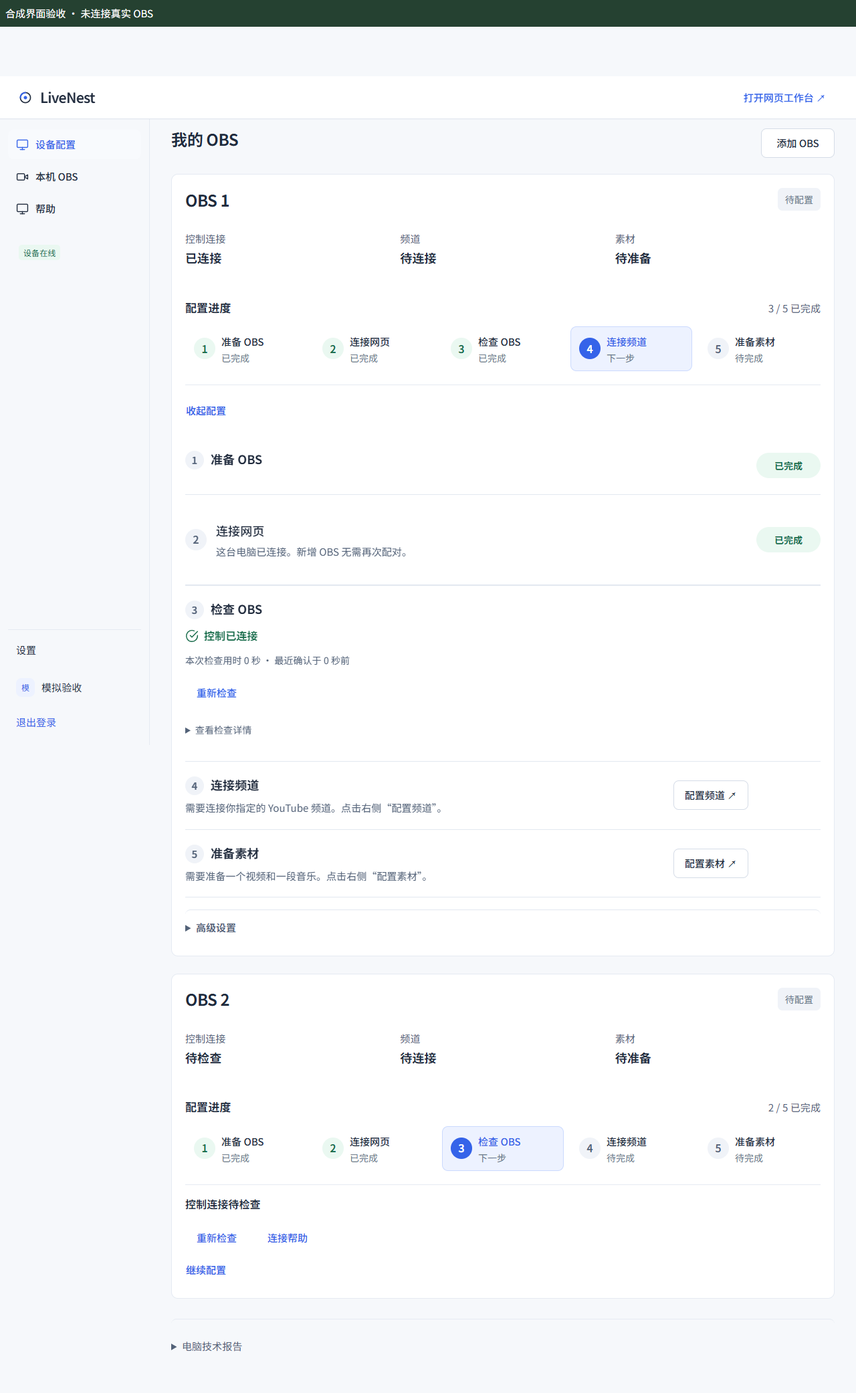
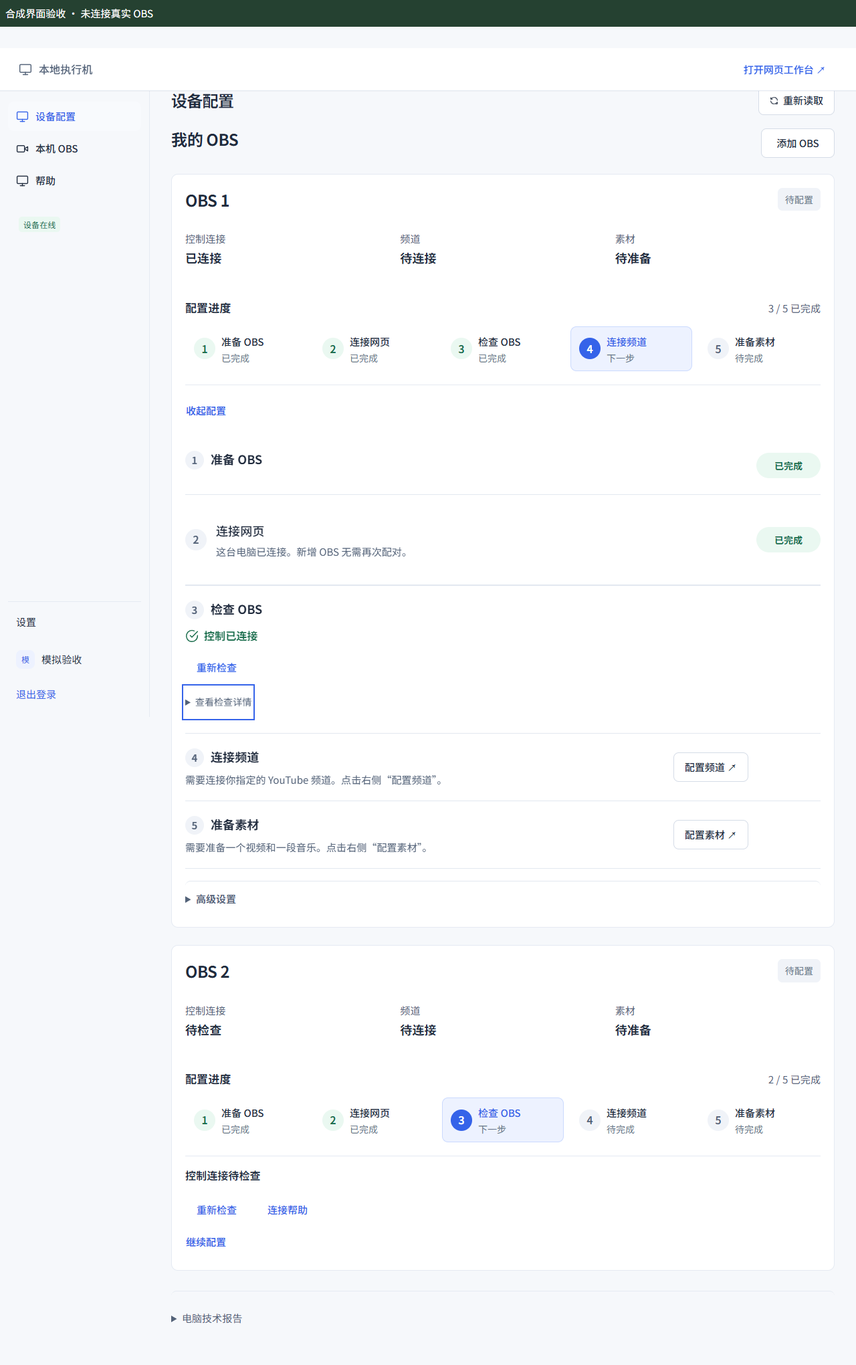
fix(desktop)：消除重复品牌并支持缩放和简洁连接反馈

diff --git a/tests/window-zoom.test.ts b/tests/window-zoom.test.ts
@@ -1,0 +1,108 @@
+/** 窗口缩放回归：验证实际安装的键盘监听、浏览器比例阶梯及未消费按键的边界。 */
+import type { Input } from "electron";
+import { describe, expect, it, vi } from "vitest";
+import { installWindowZoom } from "../electron/window-zoom";
+
+type KeyboardListener = (event: { preventDefault(): void }, input: Input) => void;
+
+/** 仅模拟 Electron 的事件及缩放接口，不启动桌面程序、Agent 或任何真实设备操作。 */
+function fixture(initialFactor = 1) {
+  let factor = initialFactor;
+  const webContents = {
+    on: vi.fn(),
+    getZoomFactor: vi.fn(() => factor),
+    setZoomFactor: vi.fn((next: number) => { factor = next; }),
+  };
+  installWindowZoom(webContents as unknown as Parameters<typeof installWindowZoom>[0]);
+  expect(webContents.on).toHaveBeenCalledExactlyOnceWith("before-input-event", expect.any(Function));
+  const listener = webContents.on.mock.calls[0][1] as KeyboardListener;
+  return {
+    webContents,
+    /** 发出 Electron 输入事件，返回是否消费该按键以核验页面和菜单不会重复缩放。 */
+    press(input: Partial<Input>) {
+      const event = { preventDefault: vi.fn() };
+      listener(event, { type: "keyDown", key: "=", code: "Equal", control: true, shift: false, alt: false, meta: false, isComposing: false, isAutoRepeat: false, location: 0, modifiers: ["control"], ...input });
+      return event;
+    },
+  };
+}
+
+describe("window zoom keyboard combinations", () => {
+  it.each([
+    { key: "=", code: "Equal" },
+    { key: "+", code: "Equal", shift: true },
+    { key: "+", code: "NumpadAdd", location: 3 },
+    { key: "Add", code: "NumpadAdd", location: 3 },
+  ])("zooms in for Ctrl + $key ($code)", input => {
+    const { webContents, press } = fixture();
+    expect(press(input).preventDefault).toHaveBeenCalledOnce();
+    expect(webContents.setZoomFactor).toHaveBeenCalledExactlyOnceWith(1.1);
+  });
+
+  it.each([
+    { key: "-", code: "Minus" },
+    { key: "-", code: "NumpadSubtract", location: 3 },
+    { key: "Subtract", code: "NumpadSubtract", location: 3 },
+  ])("zooms out for Ctrl + $key ($code)", input => {
+    const { webContents, press } = fixture();
+    expect(press(input).preventDefault).toHaveBeenCalledOnce();
+    expect(webContents.setZoomFactor).toHaveBeenCalledExactlyOnceWith(0.9);
+  });
+
+  it.each([
+    { key: "0", code: "Digit0" },
+    { key: "0", code: "Numpad0", location: 3 },
+  ])("restores 100% for Ctrl + 0 ($code)", input => {
+    const { webContents, press } = fixture(1.75);
+    expect(press(input).preventDefault).toHaveBeenCalledOnce();
+    expect(webContents.setZoomFactor).toHaveBeenCalledExactlyOnceWith(1);
+  });
+
+  it("prevents native menu handling before changing the factor", () => {
+    const { webContents, press } = fixture();
+    const event = press({});
+    expect(event.preventDefault.mock.invocationCallOrder[0]).toBeLessThan(webContents.setZoomFactor.mock.invocationCallOrder[0]);
+  });
+});
+
+describe("window zoom factors", () => {
+  it("steps repeatedly through browser zoom factors and remains within 50%-200%", () => {
+    const { webContents, press } = fixture();
+    for (let index = 0; index < 8; index++) expect(press({ isAutoRepeat: index > 0 }).preventDefault).toHaveBeenCalledOnce();
+    expect(webContents.setZoomFactor.mock.calls.map(([factor]) => factor)).toEqual([1.1, 1.25, 1.5, 1.75, 2, 2, 2, 2]);
+    webContents.setZoomFactor.mockClear();
+    for (let index = 0; index < 13; index++) expect(press({ key: "-", code: "Minus", isAutoRepeat: index > 0 }).preventDefault).toHaveBeenCalledOnce();
+    expect(webContents.setZoomFactor.mock.calls.map(([factor]) => factor)).toEqual([1.75, 1.5, 1.25, 1.1, 1, 0.9, 0.8, 0.75, 0.67, 0.5, 0.5, 0.5, 0.5]);
+  });
+
+  it.each([
+    { initial: 1.2, key: "=", expected: 1.25 },
+    { initial: 1.2, key: "-", expected: 1.1 },
+    { initial: 1.1000000000000001, key: "=", expected: 1.25 },
+    { initial: 0.9999999999999999, key: "-", expected: 0.9 },
+  ])("moves from $initial to $expected with Ctrl + $key", ({ initial, key, expected }) => {
+    const { webContents, press } = fixture(initial);
+    press({ key });
+    expect(webContents.setZoomFactor).toHaveBeenCalledExactlyOnceWith(expected);
+  });
+});
+
+describe("unhandled keyboard events", () => {
+  it.each([
+    { control: false },
+    { control: false, meta: true },
+    { alt: true },
+    { meta: true },
+    { isComposing: true },
+    { type: "keyUp" },
+    { key: "c", code: "KeyC" },
+    { key: "_", code: "Minus", shift: true },
+    { key: ")", code: "Digit0", shift: true },
+    { key: "Insert", code: "Numpad0", location: 3 },
+  ])("preserves other page and system input: %j", input => {
+    const { webContents, press } = fixture();
+    expect(press(input).preventDefault).not.toHaveBeenCalled();
+    expect(webContents.getZoomFactor).not.toHaveBeenCalled();
+    expect(webContents.setZoomFactor).not.toHaveBeenCalled();
+  });
+});

diff --git a/desktop/app/page.tsx b/desktop/app/page.tsx
@@ -3,7 +3,7 @@
 import WorkspaceSidebar from "../../src/app/components/workspace-sidebar";
 import { useCallback, useEffect, useRef, useState } from "react";
 import { activityStep, type DesktopActivity, type DesktopAction, type DesktopBridge, type DesktopState } from "../../src/shared/desktop";
-import { DeviceIcon, VideoIcon, RefreshIcon, LiveNestLogo } from "../../src/app/components/icons";
+import { DeviceIcon, VideoIcon, RefreshIcon } from "../../src/app/components/icons";
 import ProblemCard from "../../src/app/components/problem-card";
 import { makeProblem, type Problem } from "../../src/shared/problems";
 import Help from "./help";
@@ -94,7 +94,7 @@ function Desktop({ logout, username }: { logout: () => Promise<void>; username: 
   function instanceSettings(i: DesktopState["instances"][number]) {
     return <details className="advanced-settings"><summary>高级设置</summary><div className="advanced-settings-body"><dl className="advanced-settings-meta"><div><dt>程序路径</dt><dd className="desktop-path">{i.exe}</dd></div><div><dt>控制端口</dt><dd>{i.port}</dd></div></dl><label className="field-group">实例名称<input aria-label={i.name+"名称"} disabled={busy} defaultValue={i.name} maxLength={80} onBlur={e=>{if(e.target.value.trim() && e.target.value!==i.name)void act("rename",{id:i.id,name:e.target.value});}} /></label>{i.managed?<button disabled={busy} onClick={()=>void act("repair-managed",{id:i.id})}>修复连接（先关闭 OBS）</button>:<ManualConnection instances={[i]} disabled={!!busy} act={act}/>}</div></details>;
   }
-  return <><header className="app-header"><div className="header-container"><div className="brand-section"><LiveNestLogo /><span className="brand-name">LiveNest</span></div><div className="desktop-actions desktop-header-actions">{localUpdates.state && <UpdateEntry update={localUpdates.state.update} busy={localUpdates.pending || localUpdates.state.busy} act={localUpdates.act} error={localUpdates.error} />}<button className="btn-ghost" onClick={() => void act("web")}>打开网页工作台 ↗</button></div></div></header>
+  return <><header className="app-header"><div className="header-container"><div className="desktop-app-identity"><DeviceIcon /><span>本地执行机</span></div><div className="desktop-actions desktop-header-actions">{localUpdates.state && <UpdateEntry update={localUpdates.state.update} busy={localUpdates.pending || localUpdates.state.busy} act={localUpdates.act} error={localUpdates.error} />}<button className="btn-ghost" onClick={() => void act("web")}>打开网页工作台 ↗</button></div></div></header>
     <div className="workspace-shell"><WorkspaceSidebar label="桌面导航" footer={<div className="workspace-account desktop-account" aria-label="账户与设置"><button className={"sidebar-link " + (page === "设置" ? "is-active" : "")} onClick={() => setPage("设置")}>设置</button><div className="desktop-account-identity"><span className="account-avatar" aria-hidden="true">{username.slice(0, 1).toUpperCase()}</span><span>{username}</span></div><button className="btn-ghost" onClick={() => void logout()}>退出登录</button></div>}><nav aria-label="桌面导航">{pages.filter(p => p !== "设置").map(p => <button key={p} className={"sidebar-link desktop-nav " + (p === page ? "is-active" : "")} onClick={() => setPage(p)}>{p === "本机 OBS" ? <VideoIcon /> : <DeviceIcon />}<span>{p}</span></button>)}</nav><div className="desktop-status"><span className={"device-state " + (online ? "online" : "")}>{online ? "设备在线" : pairingExpired ? "配对已失效" : state?.agentRunning ? visibleError ? "等待重连" : "正在连接" : !state ? "状态未读取" : "尚未连接"}</span></div></WorkspaceSidebar>
     <main className="main-wrapper"><div className="workspace-heading"><h1>{page}</h1>{page === "设备配置" && <button disabled={busy} onClick={() => void load()}><RefreshIcon />重新读取</button>}</div>
     {state?.maintenance && <div className="banner" role="status">设备维护尚未确认结束，原配置已保留。<button disabled={busy} onClick={() => void act("start")}>重新连接并恢复</button></div>}

diff --git a/desktop/app/obs-instance-controls.tsx b/desktop/app/obs-instance-controls.tsx
@@ -6,7 +6,7 @@ import { CheckCircleIcon, AlertCircleIcon } from "../../src/app/components/icons
 import { obsStartupView } from "./obs-startup-state";
 import styles from "./obs-startup.module.css";
 
-/** 按不可变实例 ID 发起启动或只读检查，忙碌反馈只标记原目标。 */
+/** 按不可变实例 ID 发起启动或只读检查；成功只突出结果，计时留在详情，异常始终就地可见。 */
 export default function ObsInstanceControls({ instance, check, snapshot, activity, disabled, act, help, now, readFresh, refresh }: {
   instance: PublicInstance; check?: Check; snapshot?: AgentSnapshot; activity?: DesktopActivity; disabled: boolean;
   now: number; readFresh: boolean; refresh: () => void;
@@ -28,7 +28,6 @@ export default function ObsInstanceControls({ instance, check, snapshot, activit
     {view.running && <div className={styles.meta} aria-live="off">已等待 {elapsed} 秒{progress?.lastProbeAt ? " · 最近检查完成于 " + Math.max(0, Math.floor((now - progress.lastProbeAt) / 1000)) + " 秒前" : " · 等待首次检查结果"}</div>}
     {view.running && (view.unknown || view.slow) && <p role="status" className={styles.notice}>{view.unknown ? view.overdue ? "本轮已达到检查时限，正在核对最终结果。请重新读取状态，避免重复启动。" : "暂时无法确认检查是否仍在进行。可重新读取状态，或查看连接帮助。" : "连接等待较久，检查仍在继续。可查看 OBS 的控制服务设置，无需重复启动。"}</p>}
     {view.recovered && <p className={styles.notice}>{current?.problem?.code === "OBS_READY" ? "上次连接检查超时；刚刚重新检测到控制已连接。" : "上次连接检查未完成；刚刚重新检测到控制已连接。"}</p>}
-    {view.ready && <div className={styles.meta} aria-live="off">{current?.status === "complete" && !view.recovered ? `本次检查用时 ${elapsed} 秒 · ` : ""}最近确认于 {Math.max(0, Math.floor((now - view.latest!.at) / 1000))} 秒前</div>}
     {view.showFailure && current?.problem && <ProblemCard problem={current.problem} objectName={instance.name} />}
     <div className={styles.actions}>
       {view.showLaunch && <button className="btn-primary" disabled={disabled} aria-label={"启动并检查 " + instance.name} onClick={() => void act("launch-obs", { id: instance.id })}>启动并检查</button>}
@@ -36,10 +35,12 @@ export default function ObsInstanceControls({ instance, check, snapshot, activit
       {view.running && view.unknown && <button onClick={refresh}>重新读取状态</button>}
       {!view.ready && <button className="btn-ghost" onClick={help}>连接帮助</button>}
     </div>
-    {current && current.status !== "cancelled" && <details className={styles.details}><summary>查看检查详情</summary>
-      <p>{progress?.observation || current.stage}</p>
-      <p>本轮最多等待 60 秒；到期停止检查，不关闭 OBS，也不会自动开播。</p>
-      {view.showFailure && <p>本次检查用时 {elapsed} 秒。处理后请先重新检查当前状态。</p>}
+    {(view.ready || (current && current.status !== "cancelled")) && <details key={view.ready ? "connected" : "checking"} className={styles.details}><summary>查看检查详情</summary>
+      {view.ready ? <p className={styles.meta} aria-live="off">{current?.status === "complete" && !view.recovered ? `本次检查用时 ${elapsed} 秒 · ` : ""}最近确认于 {Math.max(0, Math.floor((now - view.latest!.at) / 1000))} 秒前</p> : current && <>
+        <p>{progress?.observation || current.stage}</p>
+        <p>本轮最多等待 60 秒；到期停止检查，不关闭 OBS，也不会自动开播。</p>
+        {view.showFailure && <p>本次检查用时 {elapsed} 秒。处理后请先重新检查当前状态。</p>}
+      </>}
     </details>}
   </div>;
 }

diff --git a/desktop/app/help.tsx b/desktop/app/help.tsx
@@ -1,4 +1,4 @@
-/** 随安装包离线提供的 OBS 图解；复用仓库实拍标注，不依赖联网加载。 */
+/** 随安装包离线提供的 OBS 图解和客户端快捷键；复用仓库实拍标注，不依赖联网加载。 */
 "use client";
 /* eslint-disable @next/next/no-img-element -- 本地实拍截图直接离线显示，不使用 Next 图片服务。 */
 import { useState } from "react";
@@ -12,6 +12,7 @@ const topics = [
   { title: "画布与帧率", image: "video.png", steps: ["先确认没有推流或录制，再进入设置 → 视频。", "基础画布填写 1920×1080，输出分辨率填写 1280×720。", "常用 FPS 选择 30，保存设置。", "竖屏素材应使用匹配的竖屏画布，不强行拉伸。"] },
   { title: "编码与码率", image: "output.png", steps: ["进入设置 → 输出，选择简单模式。", "初次测试选择软件 x264，视频 4000 Kbps，音频 128 Kbps。", "截图显示的是原机器数值，应按本页文字填写。", "同时运行多个 OBS 时检查 CPU、编码负载和上行带宽。"] },
   { title: "故障与恢复", image: "", steps: ["设备已删除：网页或本机删除绑定后，联网并登录会自动解除旧绑定。在网页添加直播电脑，再粘贴新配对码即可连接，不需要恢复旧设备或重新安装。OBS 和素材保留。", "账号无权访问：尚未删除的设备仍属于原客户，请使用对应客户账号；不要把权限问题当成网络故障。", "设备离线：保持客户端运行，检查电脑出站 HTTPS 网络，点击重新连接。", "OBS 连接失败：核对正确的 OBS 是否运行，以及 WebSocket 端口和密码。", "频道查询失败：先检查直播电脑网络并重新查询；只有明确授权失效才重新授权原频道，应用配置错误请联系管理员。", "配置被阻止：在方便维护时结束直播、完成或取消上传与授权，再重试原操作。", "点击“更新并重启”会自动下载、安装并重新打开，无需登录、重新配对或重复确认。准备失败时查看具体原因；OBS 推流、录制或状态未知时不会安装。Agent 正在处理任务时等待完成后重试重启更新，不要强杀进程。", "旧版本卡在重启更新：通过托盘正常退出客户端，从官方发行页下载新版覆盖安装，保留原数据目录，无需卸载或删除配置。", "未知直播状态：检查 OBS 和 YouTube Studio，不重复点击开播，不删除身份或授权文件。", "关闭窗口会收至托盘；电脑睡眠或关机会中断远程控制。"] },
+  { title: "界面缩放", image: "", steps: ["在本地执行机窗口按 Ctrl + + 放大界面，按 Ctrl + - 缩小；也支持 Ctrl + = 和数字键盘的加减键。", "按 Ctrl + 0 恢复 100%。缩放范围为 50%–200%，文字、按钮和布局会一起调整。", "登录页和登录后的配置页均可使用。缩放只调整客户端界面，不改变 OBS 画布或直播输出分辨率。"] },
 ];
 /** 章节切换不改变配置，图片可在断网情况下阅读。 */
 export default function Help({initialTopic="obs"}:{initialTopic?:string}) { const [index, setIndex] = useState(initialTopic==="storage"?1:initialTopic==="recovery"?8:0); const topic = topics[index]; return <div className="desktop-help"><nav aria-label="帮助章节">{topics.map((t, i) => <button className={i === index ? "btn-primary" : "btn-ghost"} key={t.title} onClick={() => setIndex(i)}>{t.title}</button>)}</nav><article><h2>{topic.title}</h2><ol>{topic.steps.map(s => <li key={s}>{s}</li>)}</ol>{topic.image && <img src={"/help/" + topic.image} alt={topic.title + "：编号标注为点击位置"} />}</article></div>; }

diff --git a/electron/window-zoom.ts b/electron/window-zoom.ts
@@ -1,0 +1,31 @@
+/** 执行机窗口缩放快捷键：只拦截当前窗口的 Ctrl 缩放组合，不接触 Agent 或持久化配置。 */
+import type { Input, WebContents } from "electron";
+
+const zoomFactors = [0.5, 0.67, 0.75, 0.8, 0.9, 1, 1.1, 1.25, 1.5, 1.75, 2] as const;
+const zoomTolerance = 0.0001;
+type ZoomAction = "in" | "out" | "reset";
+
+/** 只识别 Ctrl 缩放按下事件；保留组合输入、其他系统快捷键及数字键盘的 Insert 行为。 */
+function zoomAction(input: Input): ZoomAction | undefined {
+  if (input.type !== "keyDown" || !input.control || input.alt || input.meta || input.isComposing) return;
+  if (input.key === "+" || input.key === "=" || input.key === "Add" || input.code === "NumpadAdd") return "in";
+  if (input.key === "-" || input.key === "Subtract" || input.code === "NumpadSubtract") return "out";
+  if (input.key === "0") return "reset";
+}
+
+/** 沿浏览器常用比例逐档调整并限制在 50%–200%；容忍 Chromium 比例读数的浮点误差。 */
+function nextZoomFactor(current: number, action: Exclude<ZoomAction, "reset">): number {
+  if (action === "in") return zoomFactors.find(factor => factor > current + zoomTolerance) ?? zoomFactors[zoomFactors.length - 1];
+  return [...zoomFactors].reverse().find(factor => factor < current - zoomTolerance) ?? zoomFactors[0];
+}
+
+/** 为指定窗口安装缩放键；先阻止页面及菜单再次处理，再由主进程改变整页显示比例。 */
+export function installWindowZoom(webContents: Pick<WebContents, "on" | "getZoomFactor" | "setZoomFactor">): void {
+  /** 只消费已识别的缩放组合，其他按键继续交给当前输入框、页面和菜单。 */
+  webContents.on("before-input-event", (event, input) => {
+    const action = zoomAction(input);
+    if (!action) return;
+    event.preventDefault();
+    webContents.setZoomFactor(action === "reset" ? 1 : nextZoomFactor(webContents.getZoomFactor(), action));
+  });
+}

diff --git a/electron/main.ts b/electron/main.ts
@@ -12,6 +12,7 @@ import { Shutdown } from "./shutdown";
 import { DesktopAccess } from "./desktop-access";
 import { problemSchema, problemSummary } from "../src/shared/problems";
 import { UpdateAccess } from "./update-access";
+import { installWindowZoom } from "./window-zoom";
 const auth = new DesktopAuth((url, init) => net.fetch(url, init));
 protocol.registerSchemesAsPrivileged([{ scheme: "livenest", privileges: { standard: true, secure: true, supportFetchAPI: true } }]);
 app.setName("LiveNest"); app.setAppUserModelId("com.doris619619.livenest");
@@ -54,6 +55,7 @@ async function launch() {
   await manager.init();
   protocol.handle("livenest", serve); session.defaultSession.setPermissionRequestHandler((_wc, _permission, callback) => callback(false));
   window = new BrowserWindow({ width: 1280, height: 880, minWidth: 780, minHeight: 620, show: false, backgroundColor: "#ffffff", title: "LiveNest", autoHideMenuBar: true, webPreferences: { preload: path.join(__dirname, "preload.cjs"), contextIsolation: true, nodeIntegration: false, sandbox: true, webSecurity: true } });
+  installWindowZoom(window.webContents);
   window.webContents.setWindowOpenHandler(() => ({ action: "deny" })); window.webContents.on("will-navigate", e => e.preventDefault()); window.webContents.on("will-attach-webview", e => e.preventDefault());
   window.on("close", e => { if (!quitting) { e.preventDefault(); window?.hide(); } });
   ipcMain.handle("desktop:session", event => { trusted(event); return auth.session(); });

diff --git a/desktop/app/obs-startup.module.css b/desktop/app/obs-startup.module.css
@@ -1,5 +1,6 @@
 /* 文件用途：OBS 检查的局部阶段反馈与状态下方操作区，继承桌面字体和颜色。 */
 .feedback { display: flex; flex-direction: column; align-items: flex-start; gap: 12px; margin: 12px 0 4px; min-width: 0; overflow-wrap: anywhere; }
+.feedback[data-startup-state="ready"] { gap: 8px; }
 .heading { display: flex; align-items: center; gap: 8px; font-size: 16px; font-weight: 600; line-height: 1.6; }
 .heading svg { width: 20px; height: 20px; flex-shrink: 0; }
 .ready { color: var(--success-green); }
@@ -14,9 +15,9 @@
 .actions { display: flex; flex-wrap: wrap; align-items: center; justify-content: flex-start; gap: 8px 12px; margin-top: 4px; }
 .actions button, .details summary { min-height: 44px; }
 .actions button { white-space: normal; text-align: start; }
-.details { width: 100%; color: var(--text-secondary); font-size: 14px; }
+.details { width: 100%; max-width: 65ch; color: var(--text-secondary); font-size: 14px; }
 .details summary { display: list-item; cursor: pointer; padding-block: 10px; width: fit-content; }
-.details p { line-height: 1.6; }
+.details p { margin: 0 0 8px; line-height: 1.6; }
 .details summary:focus-visible { outline: 2px solid var(--accent-primary); outline-offset: 3px; }
 @keyframes turn { to { transform: rotate(360deg); } }
 @media (prefers-reduced-motion: reduce) { .spinner { animation: none; } }

diff --git a/desktop/app/desktop.css b/desktop/app/desktop.css
@@ -1,4 +1,6 @@
 /* 文件用途：桌面流程布局，颜色、字体与控件直接继承现有网站。 */
+.desktop-app-identity { display: flex; align-items: center; gap: 10px; color: var(--text-secondary); font-size: 16px; font-weight: 500; white-space: nowrap; }
+.desktop-app-identity svg { width: 20px; height: 20px; flex-shrink: 0; }
 .desktop-nav { border: 0; justify-content: start; width: 100%; font-size: 16px; background: transparent; }
 .desktop-nav.is-active { color: var(--accent-primary); background: var(--accent-subtle, #e9eef9); }
 .setup-list { display: flex; flex-direction: column; }

diff --git a/docs/desktop/OBS启动反馈.md b/docs/desktop/OBS启动反馈.md
@@ -15,9 +15,13 @@
 | 20 秒没有实际检查结果、读取失败或宿主尚未返回到期结果 | 检查结果暂未更新，不声称任务仍正常进行 | 重新读取状态、连接帮助 |
 | 本轮达到 60 秒 | 本轮连接检查已超时，OBS 可能仍在运行 | 重新检查、连接帮助 |
 | 新观测确认超时后已连接 | 控制连接已恢复，并说明上次检查超时 | 重新检查 |
-| 正常完成 | 控制已连接、耗时与最近确认时间 | 重新检查 |
+| 正常完成 | 控制已连接；耗时与最近确认时间放在折叠详情 | 重新检查 |
 
 动作统一在状态说明下方左侧排列；成功态没有蓝色启动按钮或远离说明的重复完成徽章。步骤导航的完成状态保留。时间显示为“已等待”，不伪造剩余时间或百分比。阶段使用状态语义，秒数不每秒播报；支持减少动态效果和小窗口换行。
+
+正常连接时默认只呈现连接结果、重新检查和次要的“查看检查详情”入口。成功后详情默认收起，即使等待时曾展开；展开后只显示本次检查用时（如有）及最近确认时间，不重复连接结论、旧阶段观测或已结束的 60 秒等待说明。仅有当前成功观测而无启动记录时，也能查看最近确认时间。原生详情控件保留键盘展开与可见焦点。
+
+进行中的真实阶段与已等待时间，以及慢等待、结果陈旧、超时故障、恢复说明继续直接呈现，不放入折叠详情。进行中和未恢复的失败详情保留阶段观测、60 秒预算与“不关闭 OBS、不自动开播”的操作边界。
 
 30 秒、20 秒及 60 秒是本产品的策略值，不是设计系统规定的通用阈值。今后应结合真实设备耗时分布调整。
 
@@ -34,7 +38,11 @@
 
 `npm run verify` 检查类型、lint 和自动化回归；`npm run desktop:renderer` 后运行 `node scripts/desktop/obs-startup-feedback-acceptance.mjs`，使用 Edge、随机本机端口和合成桥接。
 
-合成场景覆盖阶段、慢等待、陈旧观测、IPC 失败、超时、后续恢复、跨页保留、重复启动抑制，以及 390 / 780 / 1280px 下按钮在状态下方的位置。单元测试用虚拟时钟验证统一预算、迟到响应和只读请求边界。
+2026-10-19 的成功态精简已通过 `npm run verify`（117 个测试文件、1137 项测试及 8 项部署检查），以及桌面渲染构建和 Electron 编译。合成验收在 390 / 780 / 1280px 全部通过，覆盖成功时默认收起、等待时展开的详情在成功后收起、键盘展开、耗时可查及成功后没有旧等待契约。三张成功态截图已同步；五步配置布局本轮仅调研，尚未改为纵向。
+
+截图默认写入 `docs/desktop/screenshots/startup-feedback`；设置 `LIVENEST_STARTUP_SCREENSHOTS` 可把单次验收输出隔离到其他目录，避免覆盖已归档截图。
+
+合成场景覆盖阶段、慢等待、陈旧观测、IPC 失败、超时、后续恢复、跨页保留、重复启动抑制，以及 390 / 780 / 1280px 下按钮在状态下方的位置。还检查成功计时默认收起、键盘可展开详情、进行中的操作边界仍可查看，且成功详情不再显示等待说明或重复观测。单元测试用虚拟时钟验证统一预算、迟到响应和只读请求边界。
 
 截图为**合成界面验收，未连接真实 OBS**：[等待](screenshots/startup-feedback/waiting-1280.png)、[超时](screenshots/startup-feedback/timeout-1280.png)、[恢复](screenshots/startup-feedback/recovered-1280.png)、[成功后的按钮位置](screenshots/startup-feedback/success-1280.png)、[窄窗口](screenshots/startup-feedback/success-390.png)。实际执行结果以 PR 验证记录为准。
 

diff --git a/README.md b/README.md
@@ -3,6 +3,8 @@
 
 在网页选择素材、授权频道并控制直播；Windows 客户端配置本机 OBS、运行 Agent 和检查故障。支持多台电脑，每台可使用多个独立 OBS。
 
+**本地界面调整（待新版安装器发布）**：保留 Windows 标题栏的 LiveNest，页面头显示“本地执行机”，避免重复品牌。客户端支持 `Ctrl + +`／`Ctrl + =` 放大、`Ctrl + -` 缩小、`Ctrl + 0` 恢复 100%，范围为 50%–200%。OBS 检查成功后突出连接结果和“重新检查”，耗时及最近确认时间收进“检查详情”。使用说明见 [桌面配置与网页协作](docs/桌面配置与网页协作.md)。
+
 **OBS 启动反馈（待新版安装器发布）**：启动时显示真实阶段、已等待时间和最近检查；等待较久、状态暂未更新、超时与后续恢复分别说明。操作放在状态下方，已连接时只保留“重新检查”。本轮 60 秒预算覆盖进程启动与控制确认，超时不会关闭 OBS 或自动重启。实现与验收范围见 [OBS 启动反馈](docs/desktop/OBS启动反馈.md)。
 
 工作台按「1 素材选择 / 2 直播编排 / 3 开播」引导。第二步依次选择配置包、填写标题说明和封面，并可展开完整配置；所有编辑与最终开播共用同一份本场配置。第一步不加载预览，第三步先显示本场运行状态与开播／恢复操作，再展示最终预览。执行中不显示重试；未确认结果先重新检查，明确失败后才提供重试。卡片顶部只提供查看运行状态入口。设置可管理默认参数，并在「发布配置」中统一管理直播配置包与视频发布配置包；默认值只初始化新草稿，套用配置包只更新规则，不覆盖素材和文案。支持 AI 生成英文文案；账号 AI Key 统一供文案与互动使用，用途可分别启用；本场互动参数纳入完整配置及直播配置包。客户工作台不再展示连接诊断字段；异常就地说明原因并提供恢复操作，后台状态与脱敏报告保留。详见 [开播详情配置](docs/开播详情配置.md)。本次变更随 0.1.15 发布，部署状态与证据见 [0.1.15 发布记录](docs/desktop/0.1.15发布.md)。

diff --git a/docs/桌面配置与网页协作.md b/docs/桌面配置与网页协作.md
@@ -3,6 +3,18 @@
 
 LiveNest 负责本机 OBS 和 Agent；网页负责频道授权、素材与开停播。直播电脑不需要系统 Node、Git、Docker 或预装 OBS。以下数据位置与 OBS 简化流程随本次分支交付，未表示公开安装器已经更新。
 
+## 界面与缩放
+
+Windows 标题栏保留 LiveNest，登录后的页面头显示“本地执行机”，用于区分本地配置和网页工作台。
+
+- `Ctrl + +` 或 `Ctrl + =`：放大；`Ctrl + -`：缩小，也支持数字键盘加减键。
+- `Ctrl + 0`：恢复 100%；缩放范围为 50%–200%，文字、按钮和布局一起调整。
+- 登录页和配置页均可使用，输入框获得焦点时也生效。快捷键只在当前客户端窗口内处理，不改变 OBS 画布或直播输出分辨率。
+
+OBS 检查成功后主要显示连接结果和“重新检查”；耗时及最近确认时间放在默认折叠的检查详情。等待、超时或状态未确认时仍就地提示原因与恢复操作。以上调整尚未发布安装器或替换已安装客户端。
+
+缩放由当前 Electron 窗口处理，不注册系统全局快捷键。25 项键盘回归覆盖主键盘、数字键盘、上下限、重置、浮点倍率及不应拦截的组合键；完整 `npm run verify`、桌面构建与编译通过。合成页面已检查本地执行机标题与成功态精简；这不等同于已安装客户端的真实键盘或 OBS 集成验收。
+
 ## 安装时选择两条路径
 
 1. 从下载页获取完整 Windows x64 安装器。
